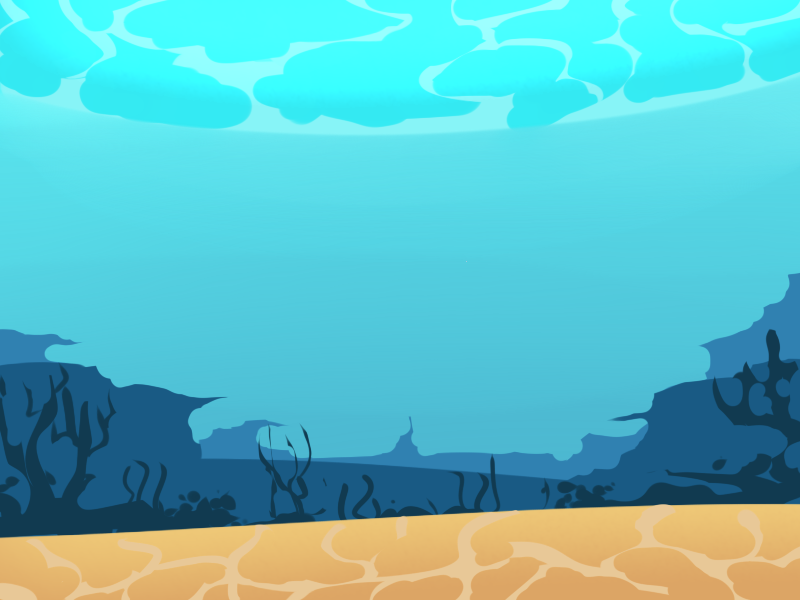
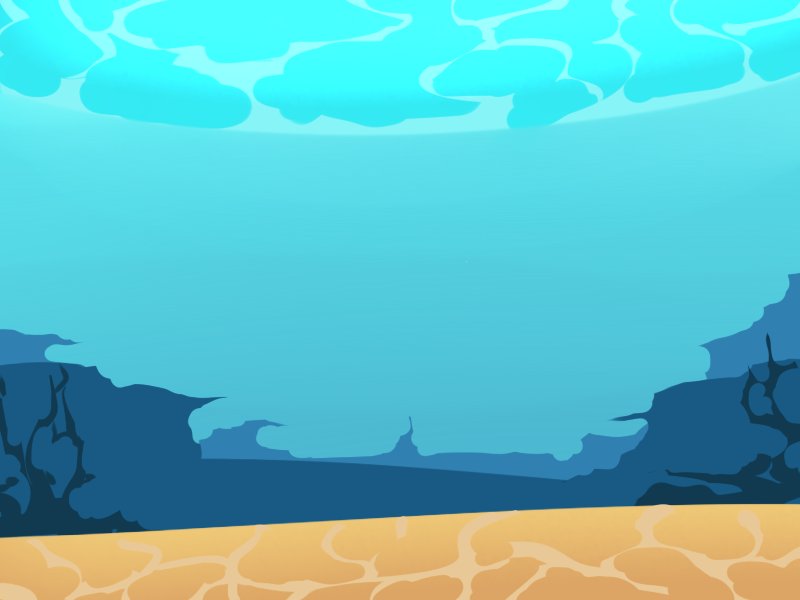
bg clean

diff --git a/main.js b/main.js
@@ -140,13 +140,13 @@ function create() {
     // timer
     timerText = this.add.text(700, 10, 'Time: 60', {
         fontSize: '20px',
-        fill: '#ffffff'
+        fill: '#0e0846'
     });
 
     // star counter
     scoreText = this.add.text(10, 75, 'Stars: 0', {
         fontSize: '20px',
-        fill: '#1f5c21'
+        fill: '#0e0846'
     });
 
     // collision